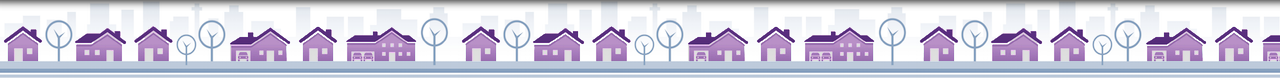
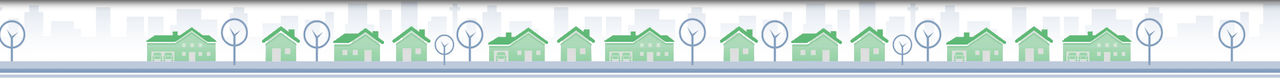
Move timeline houses over; change colour

diff --git a/scripts/directives/timeline.js b/scripts/directives/timeline.js
@@ -6,83 +6,83 @@ angular.module('habitat').directive('hbTimeline', function($rootScope, $location
       title: 'Diamond Sponsor: Toyota Motor Manufacturing',
       year: 'Tonight',
       hash: '/wall/gala',
-      offset: "130px",
-      width: "70px"
+      offset: "140px",
+      width: "100px"
     }, {
       title: '2013: 25 Years of HFHWR',
       year: '2013',
       hash: '/wall/25Years',
-      offset: "200px",
-      width: "90px"
+      offset: "240px",
+      width: "75px"
     }, {
       title: '2012: Terry Ann Thompson',
       year: '2012',
       familyStory: true,
       hash: '/wall/family_thompson',
-      offset: "290px",
-      width: "50px"
+      offset: "315px",
+      width: "70px"
     }, {
       title: '2006-2009: 1st Condominium Project (Cherry St)',
       year: '2006-2009',
       hash: '/gallery/first_condo',
-      offset: "340px",
-      width: "100px"
+      offset: "385px",
+      width: "70px"
     }, {
       title: '2005: Cambridge ReStore Opens',
       year: '2005',
       hash: '/gallery/restore_cambridge',
-      offset: "440px",
-      width: "75px"
+      offset: "455px",
+      width: "95px"
     }, {
       title: '2003: Pam and Roger Cruz',
       year: '2003',
       familyStory: true,
       hash: '/wall/family_cruz',
-      offset: "515px",
-      width: "70px"
+      offset: "550px",
+      width: "50px"
     }, {
       title: '2000: 1st Women\'s Build',
       year: '2000',
       hash: '/gallery/first_build_women',
-      offset: "585px",
-      width: "70px"
+      offset: "600px",
+      width: "95px"
     }, {
       title: '1998: 1st Annual Charity Golf Tournament',
       year: '1998',
       hash: '/gallery/first_golf',
-      offset: "655px",
-      width: "95px"
+      offset: "695px",
+      width: "80px"
     }, {
       title: '1996: 1st Cambridge Build',
       year: '1996',
       hash: '/gallery/first_build_cambridge',
-      offset: "750px",
-      width: "50px"
+      offset: "775px",
+      width: "70px"
     }, {
       title: '1993: Jimmy Carter Work Project',
       year: '1993',
       hash: '/gallery/jimmy',
-      offset: "800px",
-      width: "95px"
+      offset: "845px",
+      width: "70px"
     }, {
       title: '1993: Opening ReStore Waterloo',
       year: '1993',
       hash: '/gallery/restore_waterloo',
-      offset: "895px",
-      width: "80px"
+      offset: "915px",
+      width: "95px"
     }, {
       title: '1992: Ellie and Ken Fields',
       year: '1992',
       familyStory: true,
       hash: '/wall/family_fields',
-      offset: "975px",
-      width: "70px"
+      offset: "1010px",
+      width: "45px"
     }, {
       title: '1988: HFHWR is Incorporated',
       year: '1988',
       hash: '/gallery/incorporated',
-      offset: "1045px",
-      width: "65px"
+      offset: "1055px",
+      width: "80px"
     }
   ];
 
